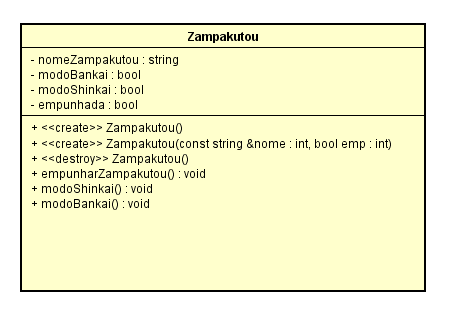
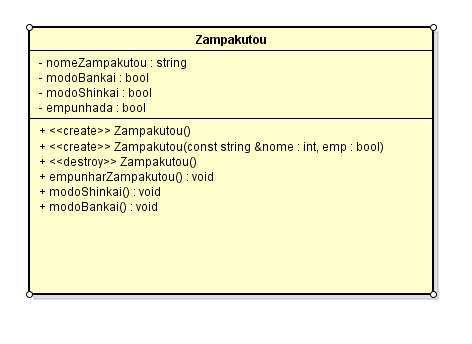
Atualização do diagrama UML e restruturação do construdor da classe.

Changed region(s): [[0.0309, 0.0571, 0.9581, 0.9429]]

diff --git a/Zampakutou.cpp b/Zampakutou.cpp
@@ -6,23 +6,24 @@ using std::cin;
 
 Zampakutou::Zampakutou()
 {
-    empunhada = false;
-    modoShinkai = false;
-    modoBankai = false;
+    this->empunhada = false;
+    this->modoShinkai = false;
+    this->modoBankai = false;
 }
 Zampakutou::Zampakutou(const string &nome, bool empu)
 {
-    nomedaZampakutou = nome;
-    empunhada = empu;
-    if (nomedaZampakutou == "zangetsu")
+    this->nomedaZampakutou = nome;
+    this->empunhada = empu;
+    
+    if (this->nomedaZampakutou == "zangetsu")
     {
-            modoShinkai = true;
-            modoBankai = false;
+            this->modoShinkai = true;
+            this->modoBankai = false;
     }
     else
     {
-        modoShinkai = false;
-        modoBankai = false;
+        this->modoShinkai = false;
+        this->modoBankai = false;
     }
 }
 
@@ -31,40 +32,40 @@ Zampakutou::~Zampakutou()
 }
 void Zampakutou::empunharZampakutou()
 {
-    if(empunhada == true)
-        cout<<"A sua Zampakutou já está empunhada!";
+    if(this->empunhada == true)
+        cout<<"A sua Zampakutou ja esta empunhada!";
     else
     {
-        empunhada = true;
-        cout<<"A sua Zampakutou está empunhada prepara-se para lutar!";
+        this->empunhada = true;
+        cout<<"A sua Zampakutou esta empunhada prepara-se para lutar!";
     }
 }
 void Zampakutou::transformarShinkai()
 {
-    if (empunhada == true)
+    if (this->empunhada == true)
     {
-        if (empunhada == true && modoShinkai == false && modoBankai == false)
+        if (this->empunhada == true && this->modoShinkai == false && this->modoBankai == false)
         {
-            modoShinkai = true;
-            cout<<"O modo Shinkai da "<<nomedaZampakutou<<" está ativa!";
+            this->modoShinkai = true;
+            cout<<"O modo Shinkai da "<<this->nomedaZampakutou<<" esta ativa!";
         }
         else
-            cout<<"O modo Shikai ou Bankai já está ativo.";
+            cout<<"O modo Shikai ou Bankai ja esta ativo.";
     }
     else
         cout<<"Antes de invocar sua Shinkai, empenhe-a!";
 }
 void Zampakutou::transformarBankai()
 {
-    if (empunhada == true)
+    if (this->empunhada == true)
     {
-        if (modoShinkai == false && modoBankai == false)
+        if (this->modoShinkai == false && this->modoBankai == false)
         {
-            modoBankai = true;
-            cout<<"O modo Bankai da "<<nomedaZampakutou<<" está ativa!";
+            this->modoBankai = true;
+            cout<<"O modo Bankai da "<<this->nomedaZampakutou<<" esta ativa!";
         }
         else        
-            cout<<"O modo Shikai ou Bankai já está ativo.";
+            cout<<"O modo Shikai ou Bankai ja esta ativo.";
     }
     else
         cout<<"Antes de invocar sua Bankai, empunhe-a!";

diff --git a/Zampakutou.hpp b/Zampakutou.hpp
@@ -1,19 +1,20 @@
-#pragma once
 #include<string>
 using std::string;
+
 class Zampakutou
 {
-public:
-    Zampakutou();
-    Zampakutou(const string &, bool);
-    ~Zampakutou();
-    void empunharZampakutou();
-    void transformarShinkai();
-    void transformarBankai();
-private:
-    string nomedaZampakutou;
-    bool modoBankai;
-    bool modoShinkai;
-    bool empunhada;
+    public:
+        Zampakutou();
+        Zampakutou(const string &, bool);
+        ~Zampakutou();
+        
+        void empunharZampakutou();
+        void transformarShinkai();
+        void transformarBankai();
+    private:
+        string nomedaZampakutou;
+        bool modoBankai;
+        bool modoShinkai;
+        bool empunhada;
 };
 

diff --git a/main.cpp b/main.cpp
@@ -1,5 +1,5 @@
-#include<iostrem>
-#include "Zampakutou/Zampakutou.hpp"
+#include<iostream>
+#include "Zampakutou.hpp"
 
 using std::string;
 using std::cout;
@@ -7,7 +7,9 @@ using std::cin;
 
 int main(){
     
-    Guerreiro g Guerreiro("zangetsu", true); // Zampakutou(const string &nome, bool empu)
+    Zampakutou espada; // Zampakutou(const string &nome, bool empu)
     
-    g.modoShikai();
+    espada.transformarShinkai();
+    espada.empunharZampakutou();
+    
     return 0;}
